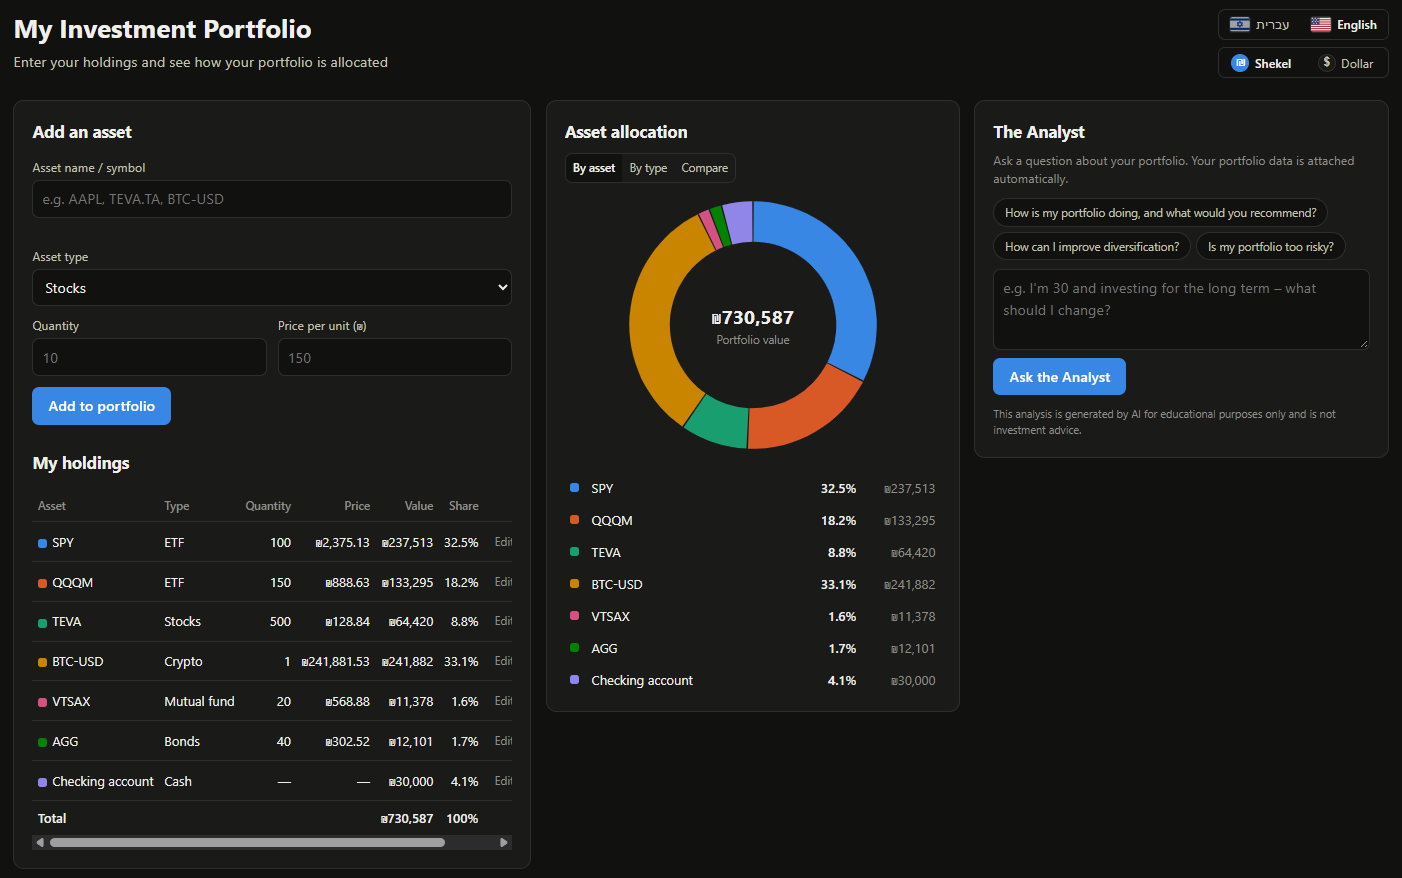
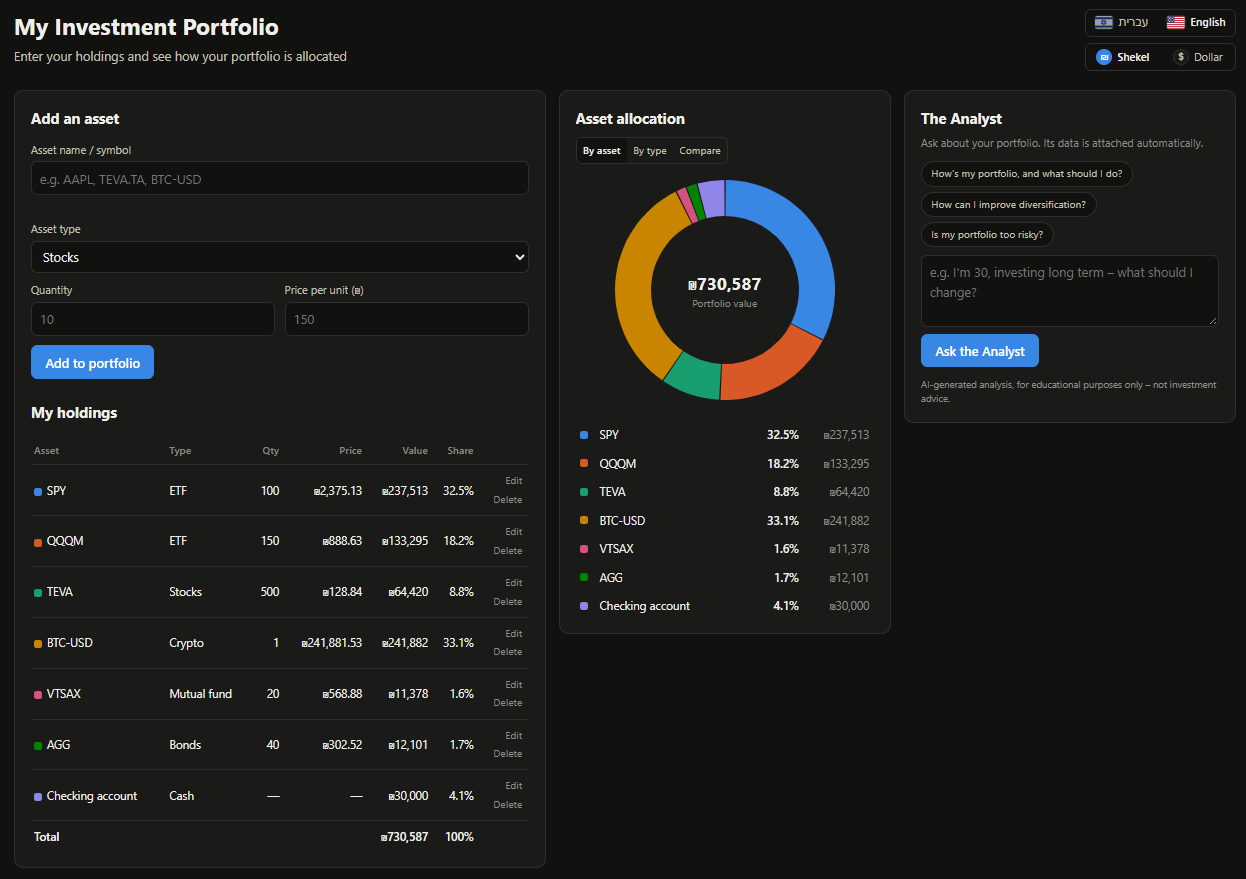
Update README screenshot and wording
- Replace the README screenshot with the current English view (three-column
  layout, compact holdings table, matching analyst panel) and give it a
  descriptive caption
- Align the example question in the usage section with the app's wording

Code comments were reviewed: all comments in server.py, public/*.js,
styles.css and index.html are in English (Hebrew remains only in UI text
and stored asset-type values).

diff --git a/README.md b/README.md
@@ -2,7 +2,7 @@
 
 A web app for tracking and analyzing a personal investment portfolio: enter your holdings, see the allocation in a chart, compare your performance against 100% SPY / QQQM, and ask an analyst powered by **Google Gemini AI** questions about your portfolio. Available in **Hebrew and English**, with amounts in **shekels or dollars**.
 
-![App screenshot](docs/screenshot.png)
+![Portfolio Analyzer - English view with holdings, asset allocation chart and the analyst](docs/screenshot.png)
 
 ---
 
@@ -78,7 +78,7 @@ A web app for tracking and analyzing a personal investment portfolio: enter your
 1. **Add an asset** - enter a symbol (e.g. `AAPL`) and the number of units. The price **and the asset type** (stock, ETF, mutual fund, crypto) are filled in automatically from the market; you can still change them or enter a price manually. For **cash**, choose the "Cash" type: the form switches to a free-text name (e.g. a bank account) and a single **amount** field.
 2. **View the portfolio** - the chart and table update immediately. Switch between the "by asset" and "by type" views, or open **"Compare"** to see how the portfolio did against 100% SPY / QQQM.
 3. **Switch language or currency** - click the Israeli or US flag, or ₪ / $, at the top of the page.
-4. **Ask the analyst** - type a question (e.g. *"I'm 30 and investing long-term - what should I change?"*) and click **Ask the Analyst**.
+4. **Ask the analyst** - type a question (e.g. *"I'm 30, investing long term – what should I change?"*) and click **Ask the Analyst**.
 
 ---
 
